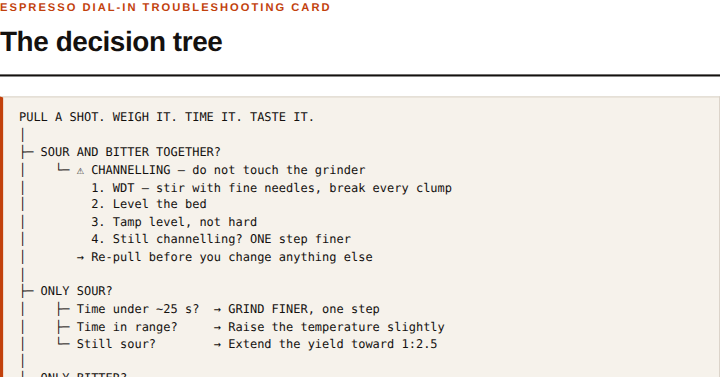
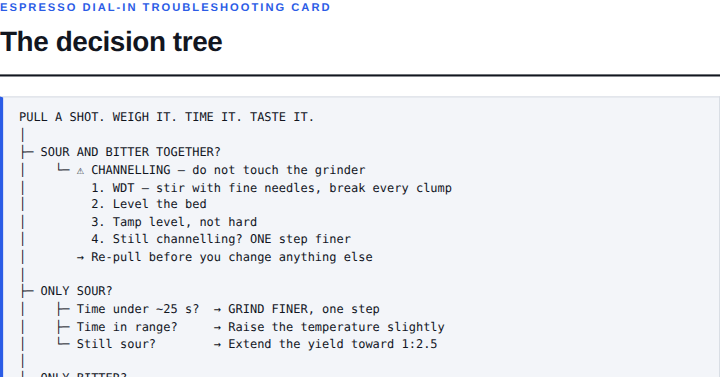
Ship the real brand identity
The logo finally arrived as a kit, so the placeholder is gone along with the
warm palette that was chosen to suit it.

The mark is eight bars tapering to a lens, cut by a blue line that breaks out
and ends in a square. That blue is the only thing separating it from a stack of
grey bars, which matters for how dark mode had been done: the placeholder was
inverted with `filter: invert(1) hue-rotate(180deg)` to save shipping a second
file, and on this mark that turns the blue orange. The kit ships real dark
variants, so the header and footer swap files with <picture> and the filter is
gone.

The lockup is assembled rather than copied. The kit gives the mark as SVG but
the full signature only as PNG, with no font file, and the PDF cover inlines
brand/logo.svg — so it has to stay vector. logo.svg therefore pairs the kit's
exact mark geometry with the wordmark set in the site's own sans. I rendered it
against the supplied signature at matched width and tuned size, baseline and
tracking until they lined up; the remaining difference is letterforms, which is
recorded in brand/README.md along with a pointer to the raster signature for
anywhere that needs exactness.

The palette follows the kit — near-black #12161F, off-white #FAFAF8, blue
#2B5CE6 — across the site tokens and the PDF print stylesheet, since a printed
guide carries the same logo on its cover. Dark mode lightens the accent to
#5B82F0 deliberately: the brand blue on #0B0F16 is about 3.3:1, which fails AA
[…]

Changed region(s): [[0.0, 0.2626, 0.0306, 1.0], [0.0, 0.0, 0.4583, 0.0292]]

diff --git a/app/globals.css b/app/globals.css
@@ -4,14 +4,14 @@
 --------------------------------------------------------------------------- */
 
 :root {
-  --ink: #14110F;
-  --paper: #FBF7F0;
+  --ink: #12161F;
+  --paper: #FAFAF8;
   --surface: #FFFFFF;
-  --accent: #C2410C;
-  --accent-soft: #FDF3E7;
-  --muted: #6B6259;
-  --rule: #E5DFD5;
-  --ok: #2F6B3A;
+  --accent: #2B5CE6;
+  --accent-soft: #EEF2FE;
+  --muted: #5B6474;
+  --rule: #E2E5EB;
+  --ok: #1F7A4D;
 
   --radius: 12px;
   --radius-sm: 8px;
@@ -24,14 +24,16 @@
 
 @media (prefers-color-scheme: dark) {
   :root {
-    --ink: #F2EDE4;
-    --paper: #14110F;
-    --surface: #1D1916;
-    --accent: #F97316;
-    --accent-soft: #2A1D12;
-    --muted: #A79C90;
-    --rule: #332C26;
-    --ok: #6FBF7F;
+    --ink: #EDEFF3;
+    --paper: #0B0F16;
+    --surface: #151A24;
+    /* Lighter than the brand blue on purpose: #2B5CE6 on this background is
+       about 3.3:1, which fails for body-sized link text. */
+    --accent: #5B82F0;
+    --accent-soft: #16203A;
+    --muted: #99A1B0;
+    --rule: #262C38;
+    --ok: #5FC28C;
     --shadow: 0 1px 2px rgb(0 0 0 / 40%), 0 8px 24px -12px rgb(0 0 0 / 60%);
   }
 }
@@ -101,11 +103,13 @@ p { margin: 0 0 1em; }
   min-height: 68px;
 }
 .site-header__logo { display: flex; align-items: center; }
-.site-header__logo img { height: 34px; width: auto; display: block; }
-@media (prefers-color-scheme: dark) {
-  /* the mark is drawn in ink-on-paper; flip it rather than ship a second file */
-  .site-header__logo img, .site-footer__logo img { filter: invert(1) hue-rotate(180deg); }
-}
+/* 46px, not the 34px the placeholder used. The real lockup gives the wordmark a
+   much smaller share of its width than the placeholder did, so the same height
+   rendered "BBA NETWORK" at about 5px cap height — present but unreadable. */
+.site-header__logo img { height: 46px; width: auto; display: block; }
+/* No inversion filter here any more. The brand kit ships real dark variants and
+   the header swaps to them with <picture>; inverting would have turned the blue
+   accent orange, which is the one colour in the mark that must not move. */
 .site-nav { display: flex; align-items: center; gap: 22px; font-size: 0.92rem; }
 .site-nav a { color: var(--ink); text-decoration: none; }
 .site-nav a:hover { color: var(--accent); }
@@ -125,7 +129,7 @@ p { margin: 0 0 1em; }
 @media (min-width: 720px) {
   .site-footer__grid { grid-template-columns: 1.4fr 1fr 1fr; }
 }
-.site-footer__logo img { height: 30px; width: auto; margin-bottom: 10px; }
+.site-footer__logo img { height: 40px; width: auto; margin-bottom: 10px; }
 .site-footer h4 {
   font-size: 0.75rem; text-transform: uppercase; letter-spacing: 0.12em;
   color: var(--ink); margin: 0 0 10px;

diff --git a/app/components/Header.tsx b/app/components/Header.tsx
@@ -6,8 +6,11 @@ export function Header() {
     <header className="site-header">
       <div className="wrap site-header__inner">
         <Link href="/" className="site-header__logo" aria-label={`${merchant.name} home`}>
-          {/* Swap brand/logo.svg and re-copy to public/ — see brand/README.md */}
-          <img src="/logo.svg" alt={merchant.name} width={240} height={64} />
+          {/* Two real files rather than a CSS filter — see brand/README.md */}
+          <picture>
+            <source srcSet="/logo-dark.svg" media="(prefers-color-scheme: dark)" />
+            <img src="/logo.svg" alt={merchant.name} width={292} height={72} />
+          </picture>
         </Link>
         <nav className="site-nav" aria-label="Primary">
           <Link href="/#guides">Guides</Link>

diff --git a/app/components/Footer.tsx b/app/components/Footer.tsx
@@ -8,7 +8,10 @@ export function Footer() {
         <div className="site-footer__grid">
           <div>
             <div className="site-footer__logo">
-              <img src="/logo.svg" alt={merchant.name} width={240} height={64} />
+              <picture>
+                <source srcSet="/logo-dark.svg" media="(prefers-color-scheme: dark)" />
+                <img src="/logo.svg" alt={merchant.name} width={292} height={72} />
+              </picture>
             </div>
             <p style={{ maxWidth: '34ch' }}>{merchant.tagline}</p>
           </div>

diff --git a/brand/README.md b/brand/README.md
@@ -1,31 +1,58 @@
 # Brand assets
 
-## ⚠ Replace the placeholder logo
+The real identity, supplied as `BBA_Network_brand_identity.zip`. The full kit is
+kept verbatim in `kit/`; the files the site and PDFs actually read are the four
+at the top of this directory, mirrored into `public/`.
 
-`logo.svg` and `logo-mark.svg` are **placeholders**. The logo referenced in the
-original brief did not arrive with the source notes — only the three product
-markdown files came through.
+## The mark
 
-To drop in the real logo:
+Eight horizontal bars tapering to a lens, cut by a blue line that breaks out to
+the right and terminates in a square. **The blue is the one colour that must not
+move** — it is the only thing separating the mark from a stack of grey bars.
 
-1. Replace `brand/logo.svg` (horizontal lockup, ~240×64 viewBox) and
-   `brand/logo-mark.svg` (square mark, 64×64 viewBox).
-2. Run `cp brand/logo*.svg public/` — the storefront reads from `public/`.
-3. If the real logo's colours differ, update the tokens in
-   `app/globals.css` (`--ink`, `--accent`, `--paper`) so the site follows it.
+That is why the dark theme swaps to a second file rather than applying a CSS
+filter. The old placeholder was inverted with `filter: invert(1) hue-rotate(180deg)`,
+which on this mark turns the blue orange.
 
-Nothing else in the codebase hardcodes the logo; it is referenced once in
-`app/components/Header.tsx` and once in `scripts/build-pdfs.mjs` for the PDF
-cover pages.
+| File | Used by |
+| --- | --- |
+| `logo.svg` | header, footer, PDF cover pages |
+| `logo-dark.svg` | header and footer under `prefers-color-scheme: dark` |
+| `logo-mark.svg` / `logo-mark-dark.svg` | square mark, no wordmark |
+| `../app/icon.svg` | browser tab |
+| `../app/apple-icon.png` | iOS home screen |
+
+`kit/` also holds an avatar, an app icon, a phone wallpaper and the raster
+signature lockups, for anywhere off-site — social profiles, marketplace shops.
+
+### The wordmark is set, not traced
+
+The kit ships the mark as SVG but the lockup only as PNG, and no font file. So
+`logo.svg` combines the kit's exact mark geometry with `BBA` and `NETWORK` set
+in the site's own sans stack. It is very close to the supplied signature but not
+identical letterforms. Use `kit/png/bba-signature-*.png` where exactness matters
+more than scaling.
 
 ## Tokens
 
+Taken from the kit. Changing one here changes the whole site — `app/globals.css`
+mirrors this table, and `scripts/lib/print-styles.mjs` mirrors the light column
+for the PDFs.
+
 | Token | Light | Dark | Use |
 | --- | --- | --- | --- |
-| `--ink` | `#14110F` | `#F2EDE4` | Body text, mark background |
-| `--paper` | `#FBF7F0` | `#14110F` | Page background |
-| `--accent` | `#C2410C` | `#F97316` | Links, buttons, rules |
-| `--muted` | `#6B6259` | `#A79C90` | Secondary text |
+| `--ink` | `#12161F` | `#EDEFF3` | Body text, mark strokes |
+| `--paper` | `#FAFAF8` | `#0B0F16` | Page background |
+| `--accent` | `#2B5CE6` | `#5B82F0` | Links, buttons, the mark's blue |
+| `--muted` | `#5B6474` | `#99A1B0` | Secondary text |
+| `--rule` | `#E2E5EB` | `#262C38` | Hairlines |
 
-Type: system UI sans for the interface, `ui-monospace` for the reference
-tables and code blocks that make up most of the product pages.
+Dark mode lightens the accent on purpose: the brand blue on `#0B0F16` is about
+3.3:1, which fails WCAG AA for body-sized link text. The mark keeps the true
+`#2B5CE6` in both themes — it is a graphic, not text.
+
+Warning callouts in the PDFs stay amber rather than following the accent. That
+colour is doing semantic work in a reference someone is following at a machine.
+
+Type: system UI sans for the interface, `ui-monospace` for the reference tables
+and code blocks that make up most of the product pages.

diff --git a/docs/RUNBOOK.md b/docs/RUNBOOK.md
@@ -2,15 +2,7 @@
 
 Everything between "the code works" and "the business takes money".
 
-## 1. The two things blocking a real launch
-
-### The logo is a placeholder
-
-The brief mentioned a logo, but only the three product markdown files arrived — no
-image came through. `brand/logo.svg` and `brand/logo-mark.svg` are placeholders built
-from the business name.
-
-Replacing it is a two-file change; see `brand/README.md`. Nothing else hardcodes it.
+## 1. The one thing blocking a real launch
 
 ### The miniature guide is missing its recipe tables
 

diff --git a/CLAUDE.md b/CLAUDE.md
@@ -56,7 +56,6 @@ PDFs live in R2, not in the bundle, so a deploy alone does not update them.
 
 ## Known gaps
 
-- The logo in `brand/` and `public/` is a **placeholder** — see `brand/README.md`.
 - `miniature-speedpaint-recipe-sheet` is missing its eight recipe tables; they exported
   empty. See `docs/RUNBOOK.md`. Do not fill them in from general knowledge.
 
